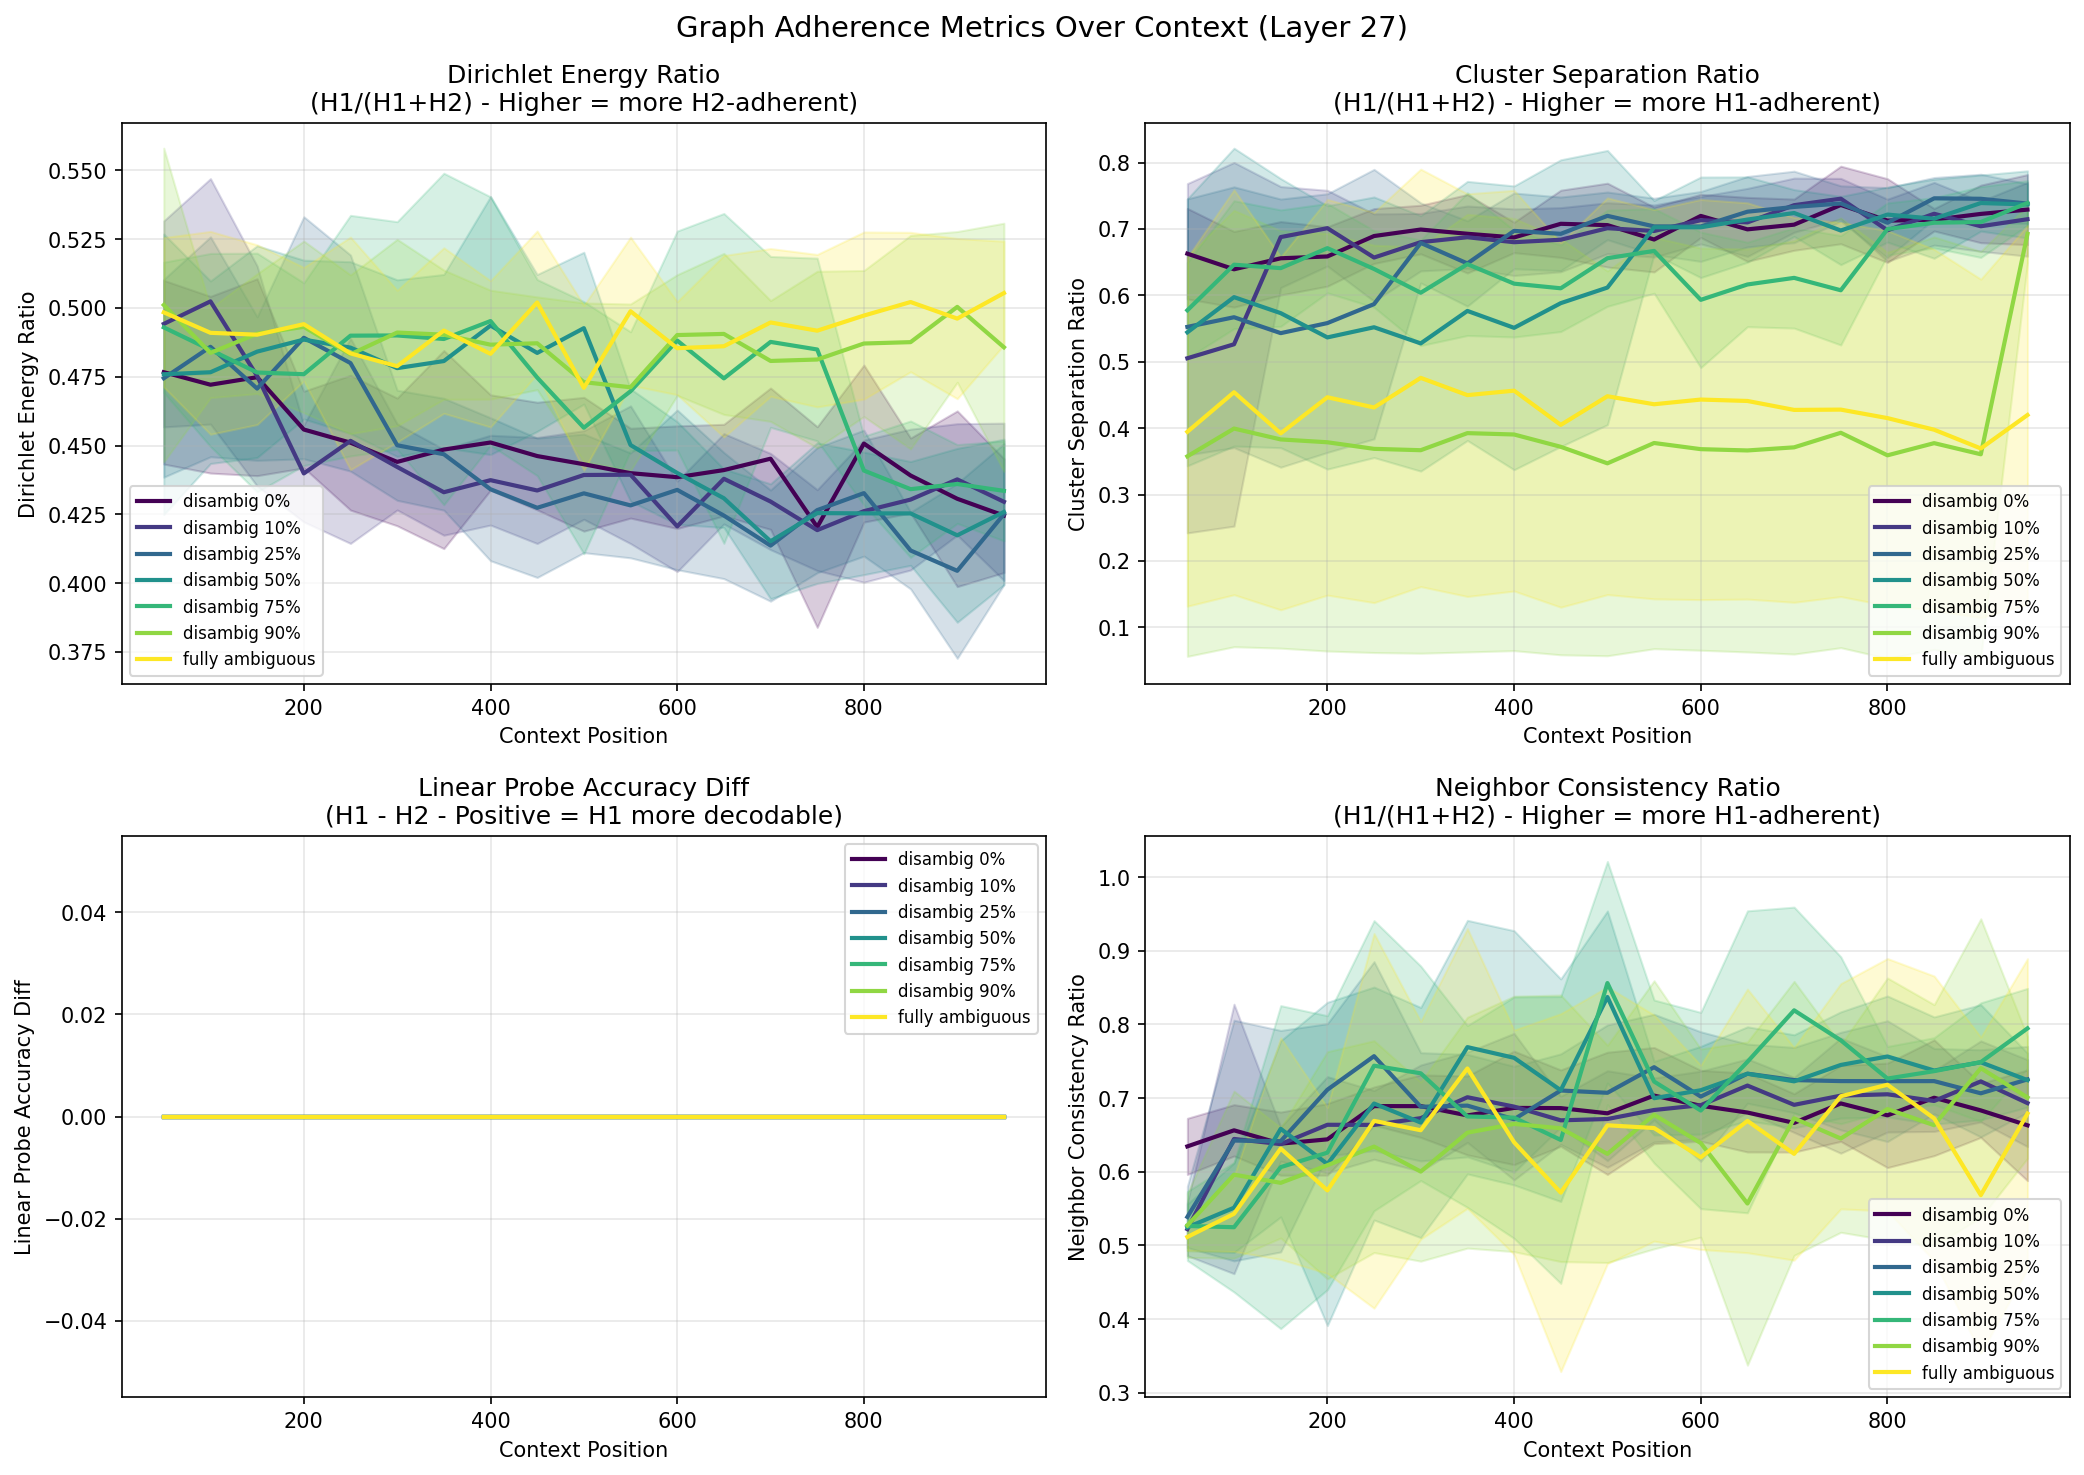
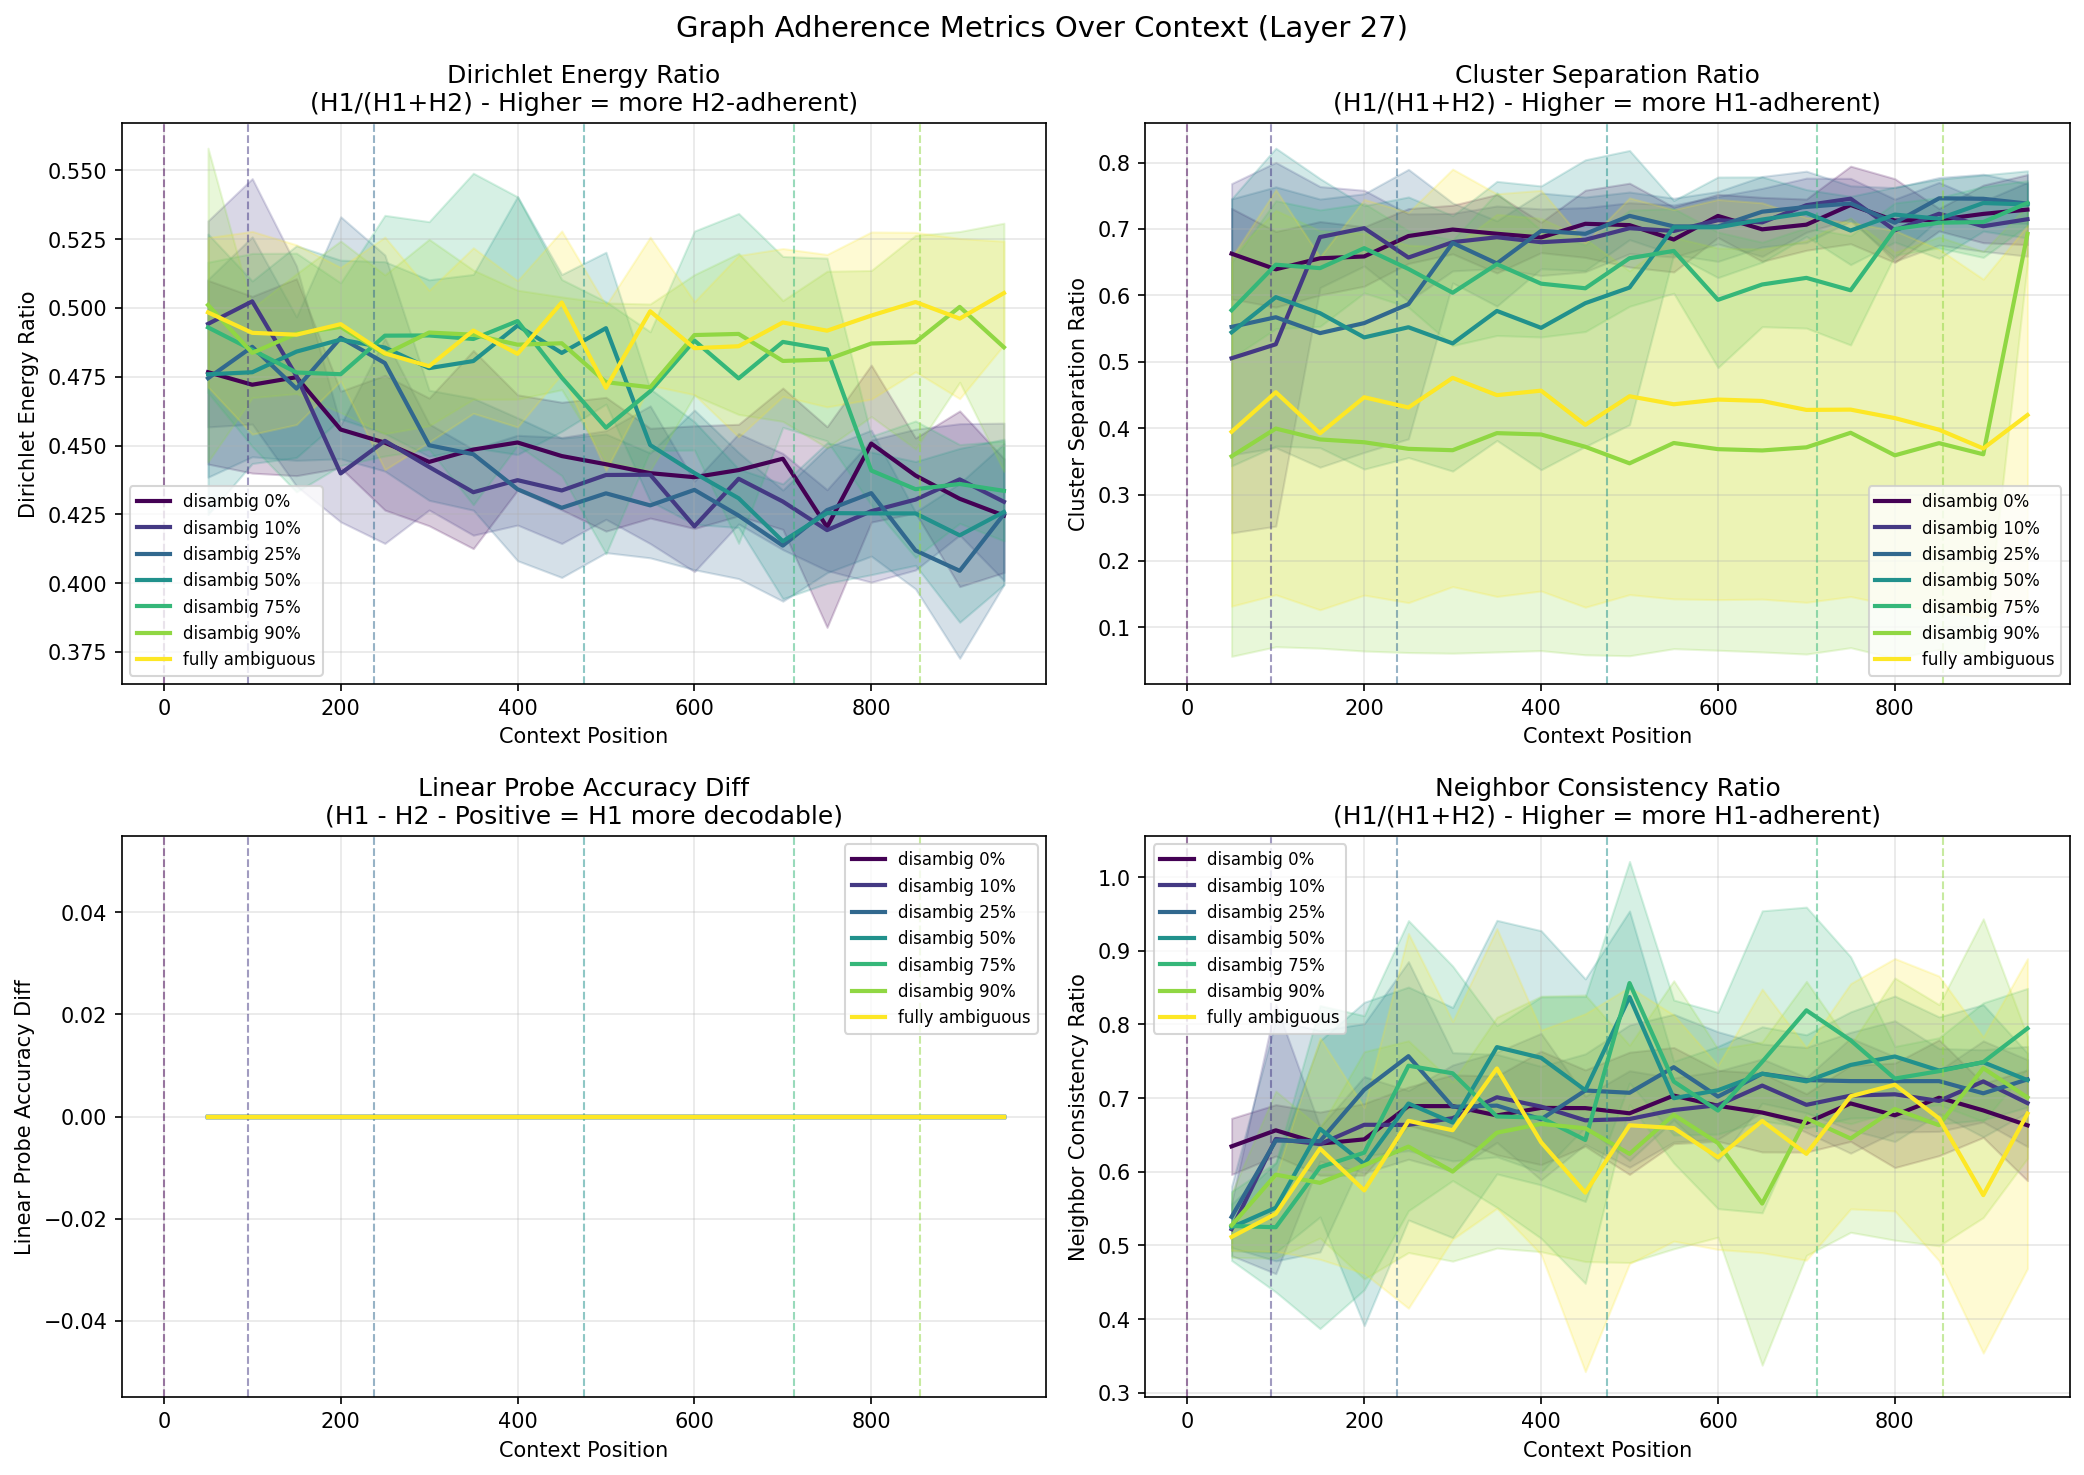
Add vertical lines at disambiguation points in plots

diff --git a/experiments/core/run_graph_adherence_experiment.py b/experiments/core/run_graph_adherence_experiment.py
@@ -239,6 +239,12 @@ def plot_results(results_path: str, output_dir: str = None):
     layers = sorted(all_layers)
     checkpoints = sorted(all_checkpoints)
 
+    # Helper function to get disambiguation percentage from condition name
+    def get_disambig_pct(cond):
+        if "fully" in cond:
+            return 100
+        return int(cond.split("_")[1].replace("pct", ""))
+
     # Metrics to plot
     metrics = [
         ("dirichlet_ratio", "Dirichlet Energy Ratio", "H1/(H1+H2) - Higher = more H2-adherent"),
@@ -281,6 +287,12 @@ def plot_results(results_path: str, output_dir: str = None):
             ax.plot(checkpoints, means, label=label, color=colors[cond_idx], linewidth=2)
             ax.fill_between(checkpoints, means - stds, means + stds, alpha=0.2, color=colors[cond_idx])
 
+            # Add vertical line at disambiguation point
+            disambig_pct = get_disambig_pct(condition)
+            if disambig_pct < 100:
+                disambig_pos = disambig_pct * max(checkpoints) / 100
+                ax.axvline(x=disambig_pos, color=colors[cond_idx], linestyle='--', alpha=0.5, linewidth=1)
+
         ax.set_xlabel("Context Position")
         ax.set_ylabel(metric_name)
         ax.set_title(f"{metric_name}\n({metric_desc})")
@@ -295,12 +307,6 @@ def plot_results(results_path: str, output_dir: str = None):
     # Plot 2: Compare metrics at final checkpoint for different disambiguations
     fig, axes = plt.subplots(2, 2, figsize=(14, 10))
     axes = axes.flatten()
-
-    # Sort conditions by disambiguation percentage
-    def get_disambig_pct(cond):
-        if "fully" in cond:
-            return 100
-        return int(cond.split("_")[1].replace("pct", ""))
 
     sorted_conditions = sorted(conditions, key=get_disambig_pct)
     disambig_pcts = [get_disambig_pct(c) for c in sorted_conditions]
